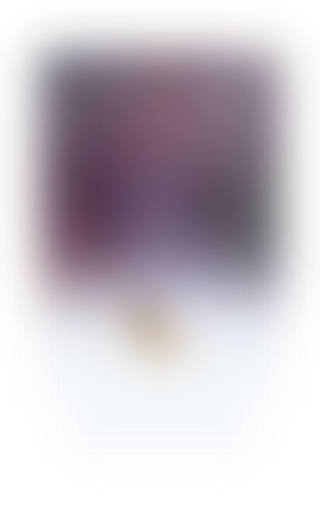
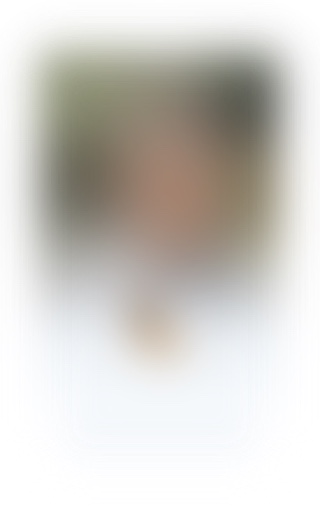
submit

Changed region(s): [[0.0938, 0.0906, 0.9062, 0.5736]]

diff --git a/public/4_cauchuyencuahongvan.html b/public/4_cauchuyencuahongvan.html
@@ -230,7 +230,7 @@
                             left: 9vw;">
                           </button>
                         </a> 
-                        <img src="media/other/maplink.svg" alt="" onload="SVGInject(this)" class="fullWidth fullHeight" />
+                        <img src="media/other/maplink_nosaw.svg" alt="" onload="SVGInject(this)" class="fullWidth fullHeight" />
                     </div>                    
 
                     <!-- //Content -->
